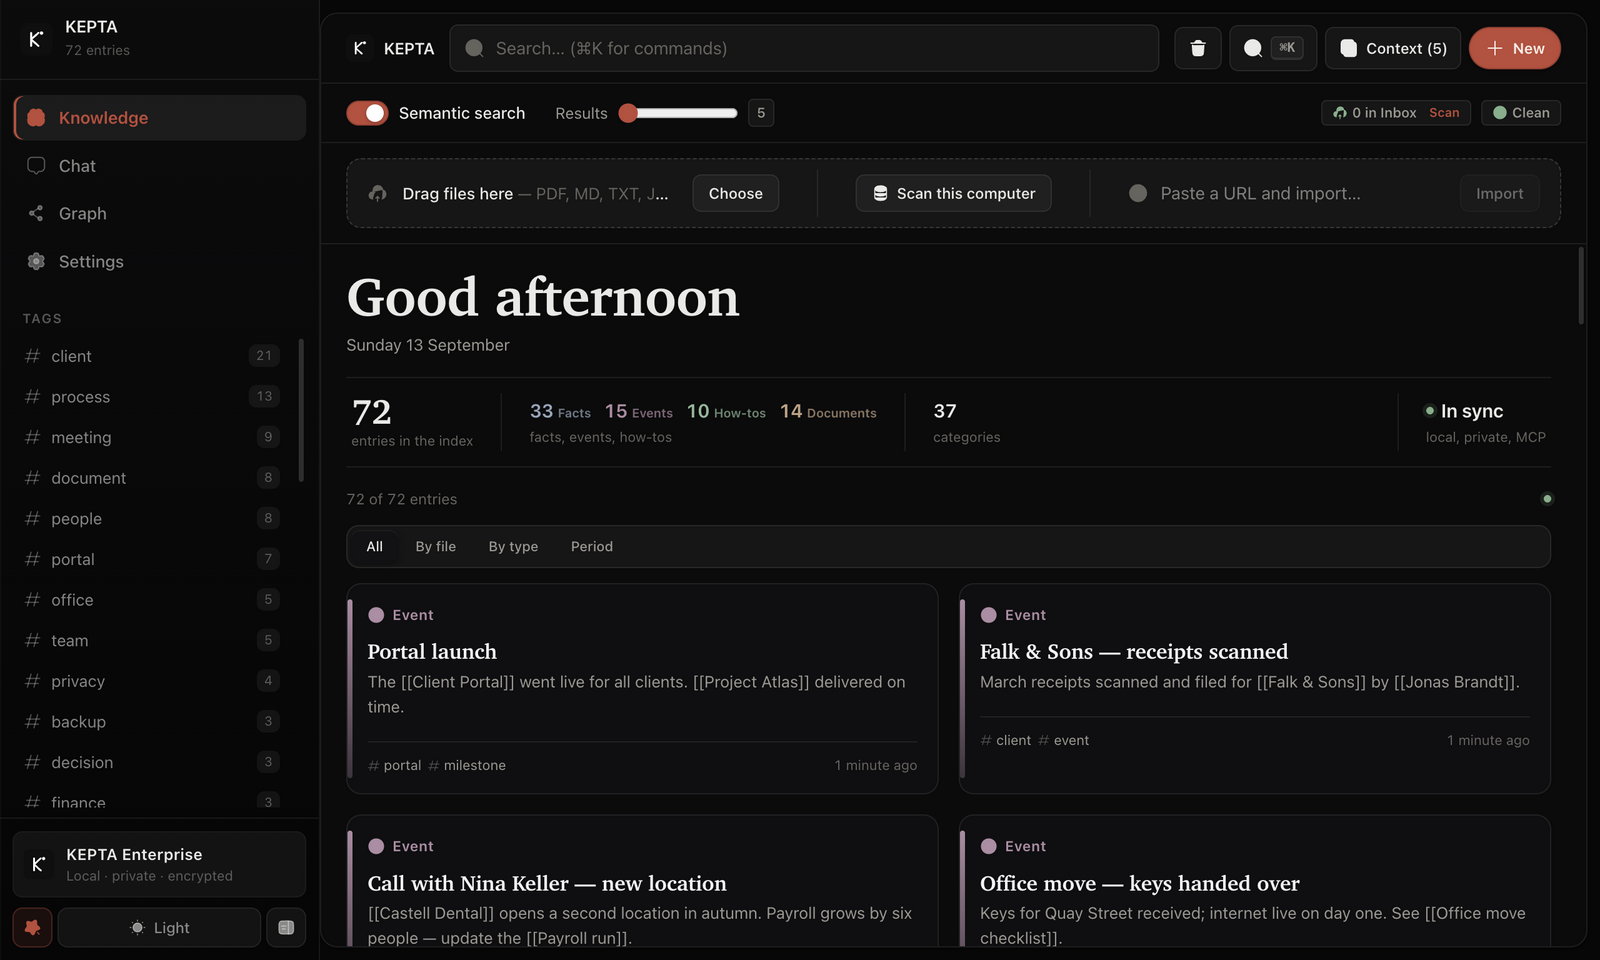
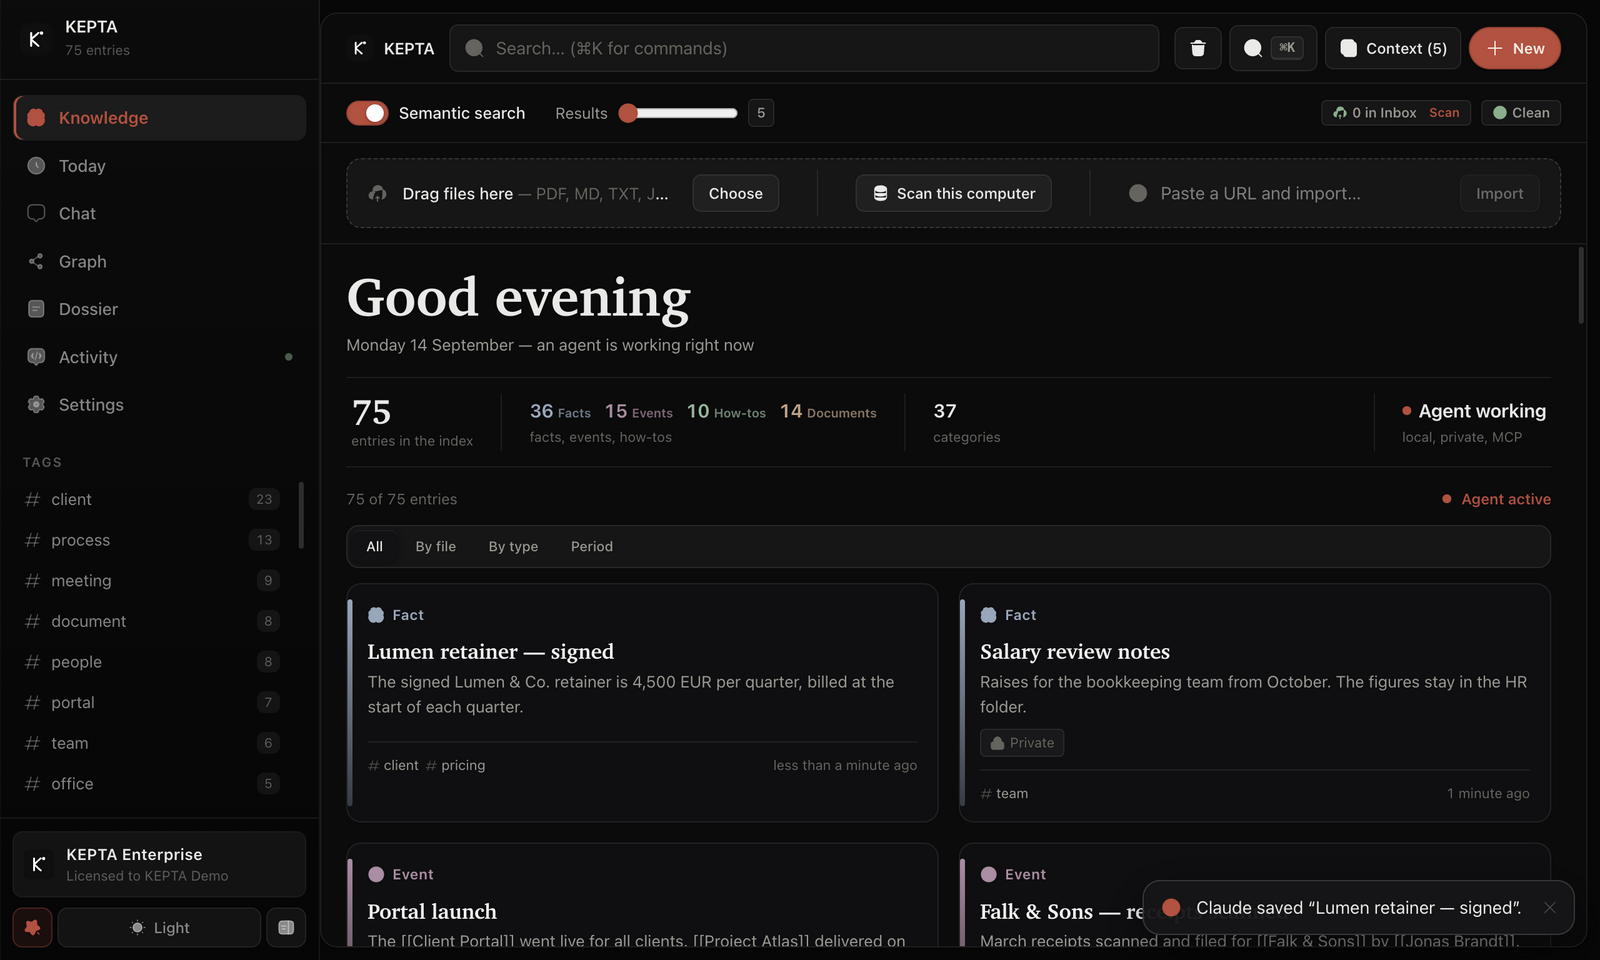
docs: alle 12 Screenshots aus 2.13.1 — Today, Dossier, Activity, Audit, Privacy-Shield, Connect

diff --git a/README.de.md b/README.de.md
@@ -40,15 +40,21 @@ Du musst ihn nie briefen. Auf deinem Rechner liegt eine Datei; deine Assistenten
 
 ## 👀 So sieht es aus
 
-| Alles, was du weißt, nach Art geordnet | Suche, die nach Bedeutung sortiert |
+| Today — was seit deinem letzten Besuch passiert ist und was einen Blick braucht | Activity — welche KI-App was liest und schreibt, live |
 |---|---|
-| ![Der Index von KEPTA Enterprise](docs/screenshots/01-index.png) | ![Die Suche in KEPTA Enterprise](docs/screenshots/06-search.png) |
+| ![Today: zwei Notizen, die sich bei einer Pauschale widersprechen, nebeneinander, und was Claude seit dem letzten Besuch ergänzt hat](docs/screenshots/07-today.png) | ![Activity: Claude und Cursor suchen und speichern, live](docs/screenshots/09-activity.png) |
+| **Dossier — alles über einen Mandanten auf einer Seite** | **Prüfprotokoll — jeder Zugriff, versiegelt und prüfbar** |
+| ![Ein Dossier zu einem Mandanten: Fakten, Zeitleiste und Dokumente](docs/screenshots/08-dossier.png) | ![Das Prüfprotokoll nach Check integrity: unverändert](docs/screenshots/10-audit.png) |
+| **Privatsphäre-Schild — was eine Cloud-KI zu sehen bekäme** | **KI-Apps mit einem Klick verbinden** |
+| ![Der Privatsphäre-Schild macht aus E-Mail-Adresse, IBAN und Telefonnummer Platzhalter](docs/screenshots/11-privacy.png) | ![KI-Apps verbinden: Claude Desktop und Cursor verbunden, die übrigen einen Klick entfernt](docs/screenshots/12-connect.png) |
+| **Alles, was du weißt, nach Art geordnet — private Notizen inklusive** | **Suche, die nach Bedeutung sortiert** |
+| ![Der Index von KEPTA Enterprise mit einer privaten Notiz](docs/screenshots/01-index.png) | ![Die Suche in KEPTA Enterprise](docs/screenshots/06-search.png) |
 | **Der Wissensgraph — jede Notiz ein Knoten, jeder Link eine Kante** | **Dasselbe Wissen als Baum** |
 | ![Der Wissensgraph, Ansicht Force](docs/screenshots/03-graph.png) | ![Der Wissensgraph, Ansicht Tree](docs/screenshots/04-dendrogram.png) |
-| **Der Editor — Wissensart, `[[Links]]`, Gültigkeit** | **Einstellungen — Systemstatus, Verschlüsselung, Device Sync** |
+| **Der Editor — Wissensart, `[[Links]]`, ein Schalter für privat** | **Einstellungen — Systemstatus und Verschlüsselung** |
 | ![Der Editor](docs/screenshots/04-editor.png) | ![Die Einstellungen mit dem Systemstatus](docs/screenshots/05-setup.png) |
 
-<sub>KEPTA Enterprise 2.11 mit einem erfundenen Demo-Bestand — jeder Name und jeder Eintrag ist für diese Bilder ausgedacht.</sub>
+<sub>KEPTA Enterprise 2.13 mit einem erfundenen Demo-Bestand — jeder Name und jeder Eintrag ist für diese Bilder ausgedacht. Claude und Cursor haben über den echten MCP-Server damit gearbeitet. Die Oberfläche ist englisch.</sub>
 
 ## 💎 Warum es sich anders anfühlt
 

diff --git a/README.md b/README.md
@@ -40,15 +40,21 @@ You never brief it. There is one file on your computer; your assistants read it 
 
 ## 👀 See it
 
-| Everything you know, grouped by kind | Search that ranks by meaning |
+| Today — what changed since your last visit, and what needs a look | Activity — which AI app reads and writes what, live |
 |---|---|
-| ![The index of KEPTA Enterprise](docs/screenshots/01-index.png) | ![Search in KEPTA Enterprise](docs/screenshots/06-search.png) |
+| ![Today: two notes that disagree about a retainer, side by side, and what Claude added since the last visit](docs/screenshots/07-today.png) | ![Activity: Claude and Cursor searching and saving, live](docs/screenshots/09-activity.png) |
+| **Dossier — everything about a client on one page** | **Audit log — every access, sealed and checkable** |
+| ![A dossier for a client: key facts, timeline and documents](docs/screenshots/08-dossier.png) | ![The audit log after Check integrity: intact](docs/screenshots/10-audit.png) |
+| **Privacy shield — what a cloud AI would get to see** | **Connect your AI apps in one click** |
+| ![The privacy shield turning an email address, an IBAN and a phone number into placeholders](docs/screenshots/11-privacy.png) | ![Connect your AI apps: Claude Desktop and Cursor connected, the others one click away](docs/screenshots/12-connect.png) |
+| **Everything you know, grouped by kind — private notes included** | **Search that ranks by meaning** |
+| ![The index of KEPTA Enterprise with a private note](docs/screenshots/01-index.png) | ![Search in KEPTA Enterprise](docs/screenshots/06-search.png) |
 | **The knowledge graph — every note a node, every link an edge** | **The same knowledge as a tree** |
 | ![The knowledge graph, Force view](docs/screenshots/03-graph.png) | ![The knowledge graph, Tree view](docs/screenshots/04-dendrogram.png) |
-| **The editor — kinds of knowledge, `[[links]]`, validity** | **Settings — system status, encryption at rest, Device Sync** |
+| **The editor — kinds of knowledge, `[[links]]`, one switch for private** | **Settings — system status and encryption at rest** |
 | ![The editor](docs/screenshots/04-editor.png) | ![Settings with the system status](docs/screenshots/05-setup.png) |
 
-<sub>KEPTA Enterprise 2.11 on an invented demo corpus — every name and every entry was made up for these shots.</sub>
+<sub>KEPTA Enterprise 2.13 on an invented demo corpus — every name and every entry was made up for these shots. Claude and Cursor worked on it through the real MCP server.</sub>
 
 ## 💎 Why it feels different
 
